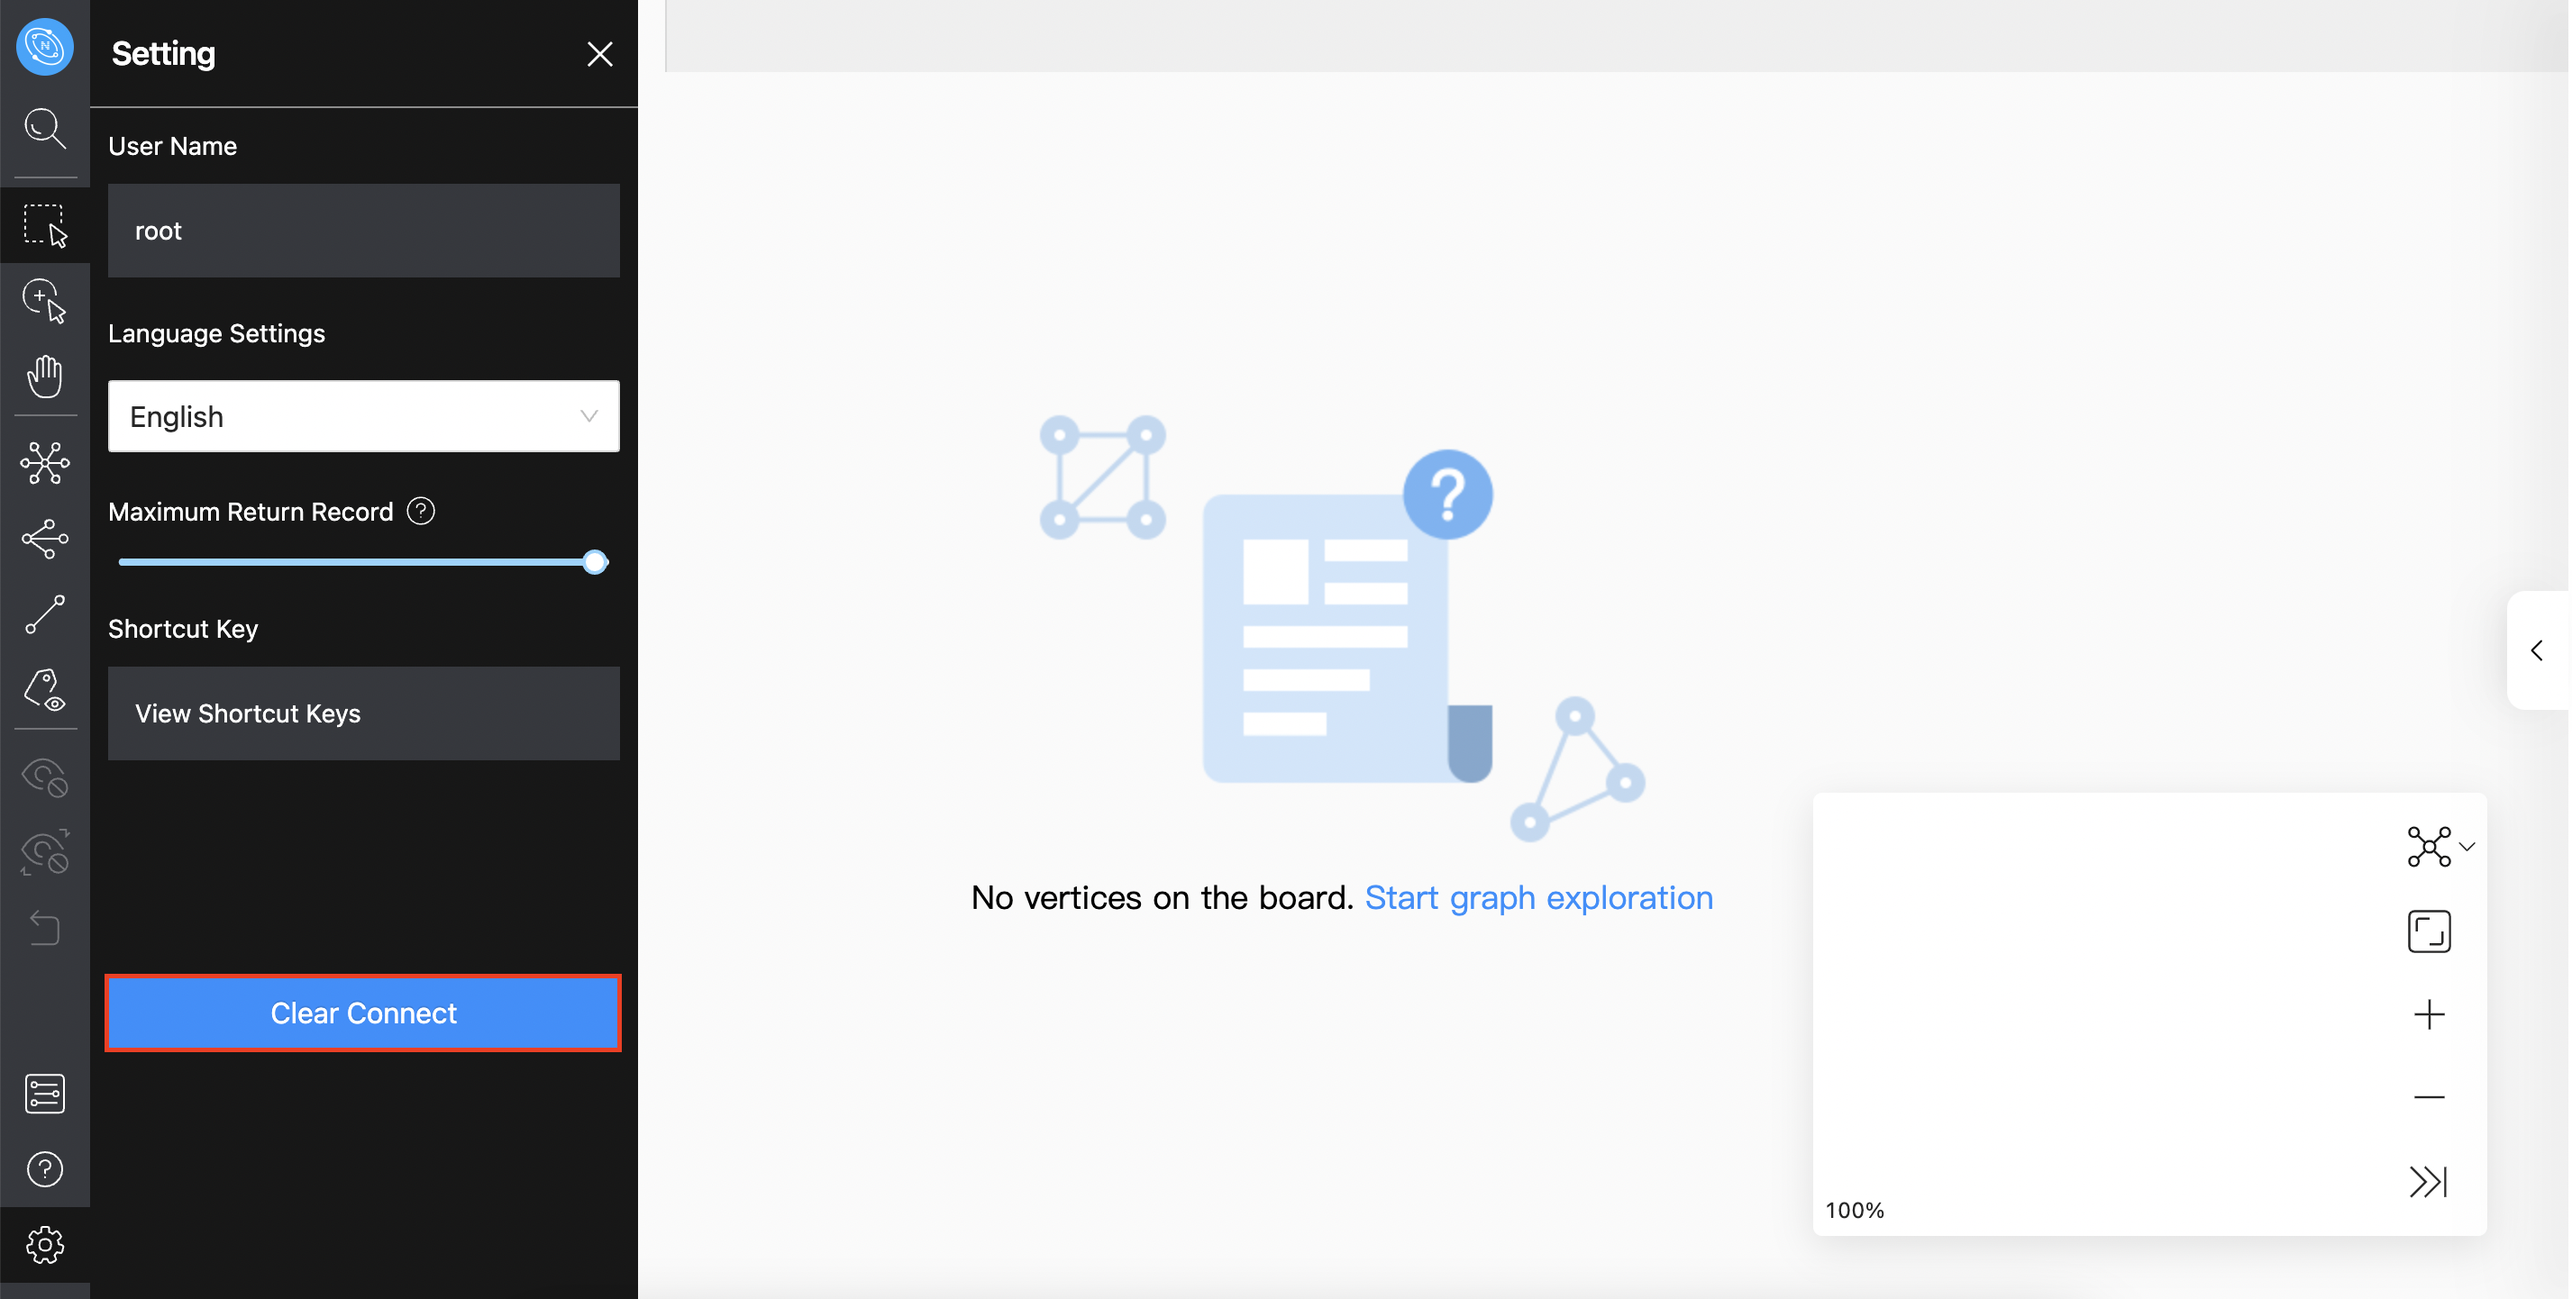
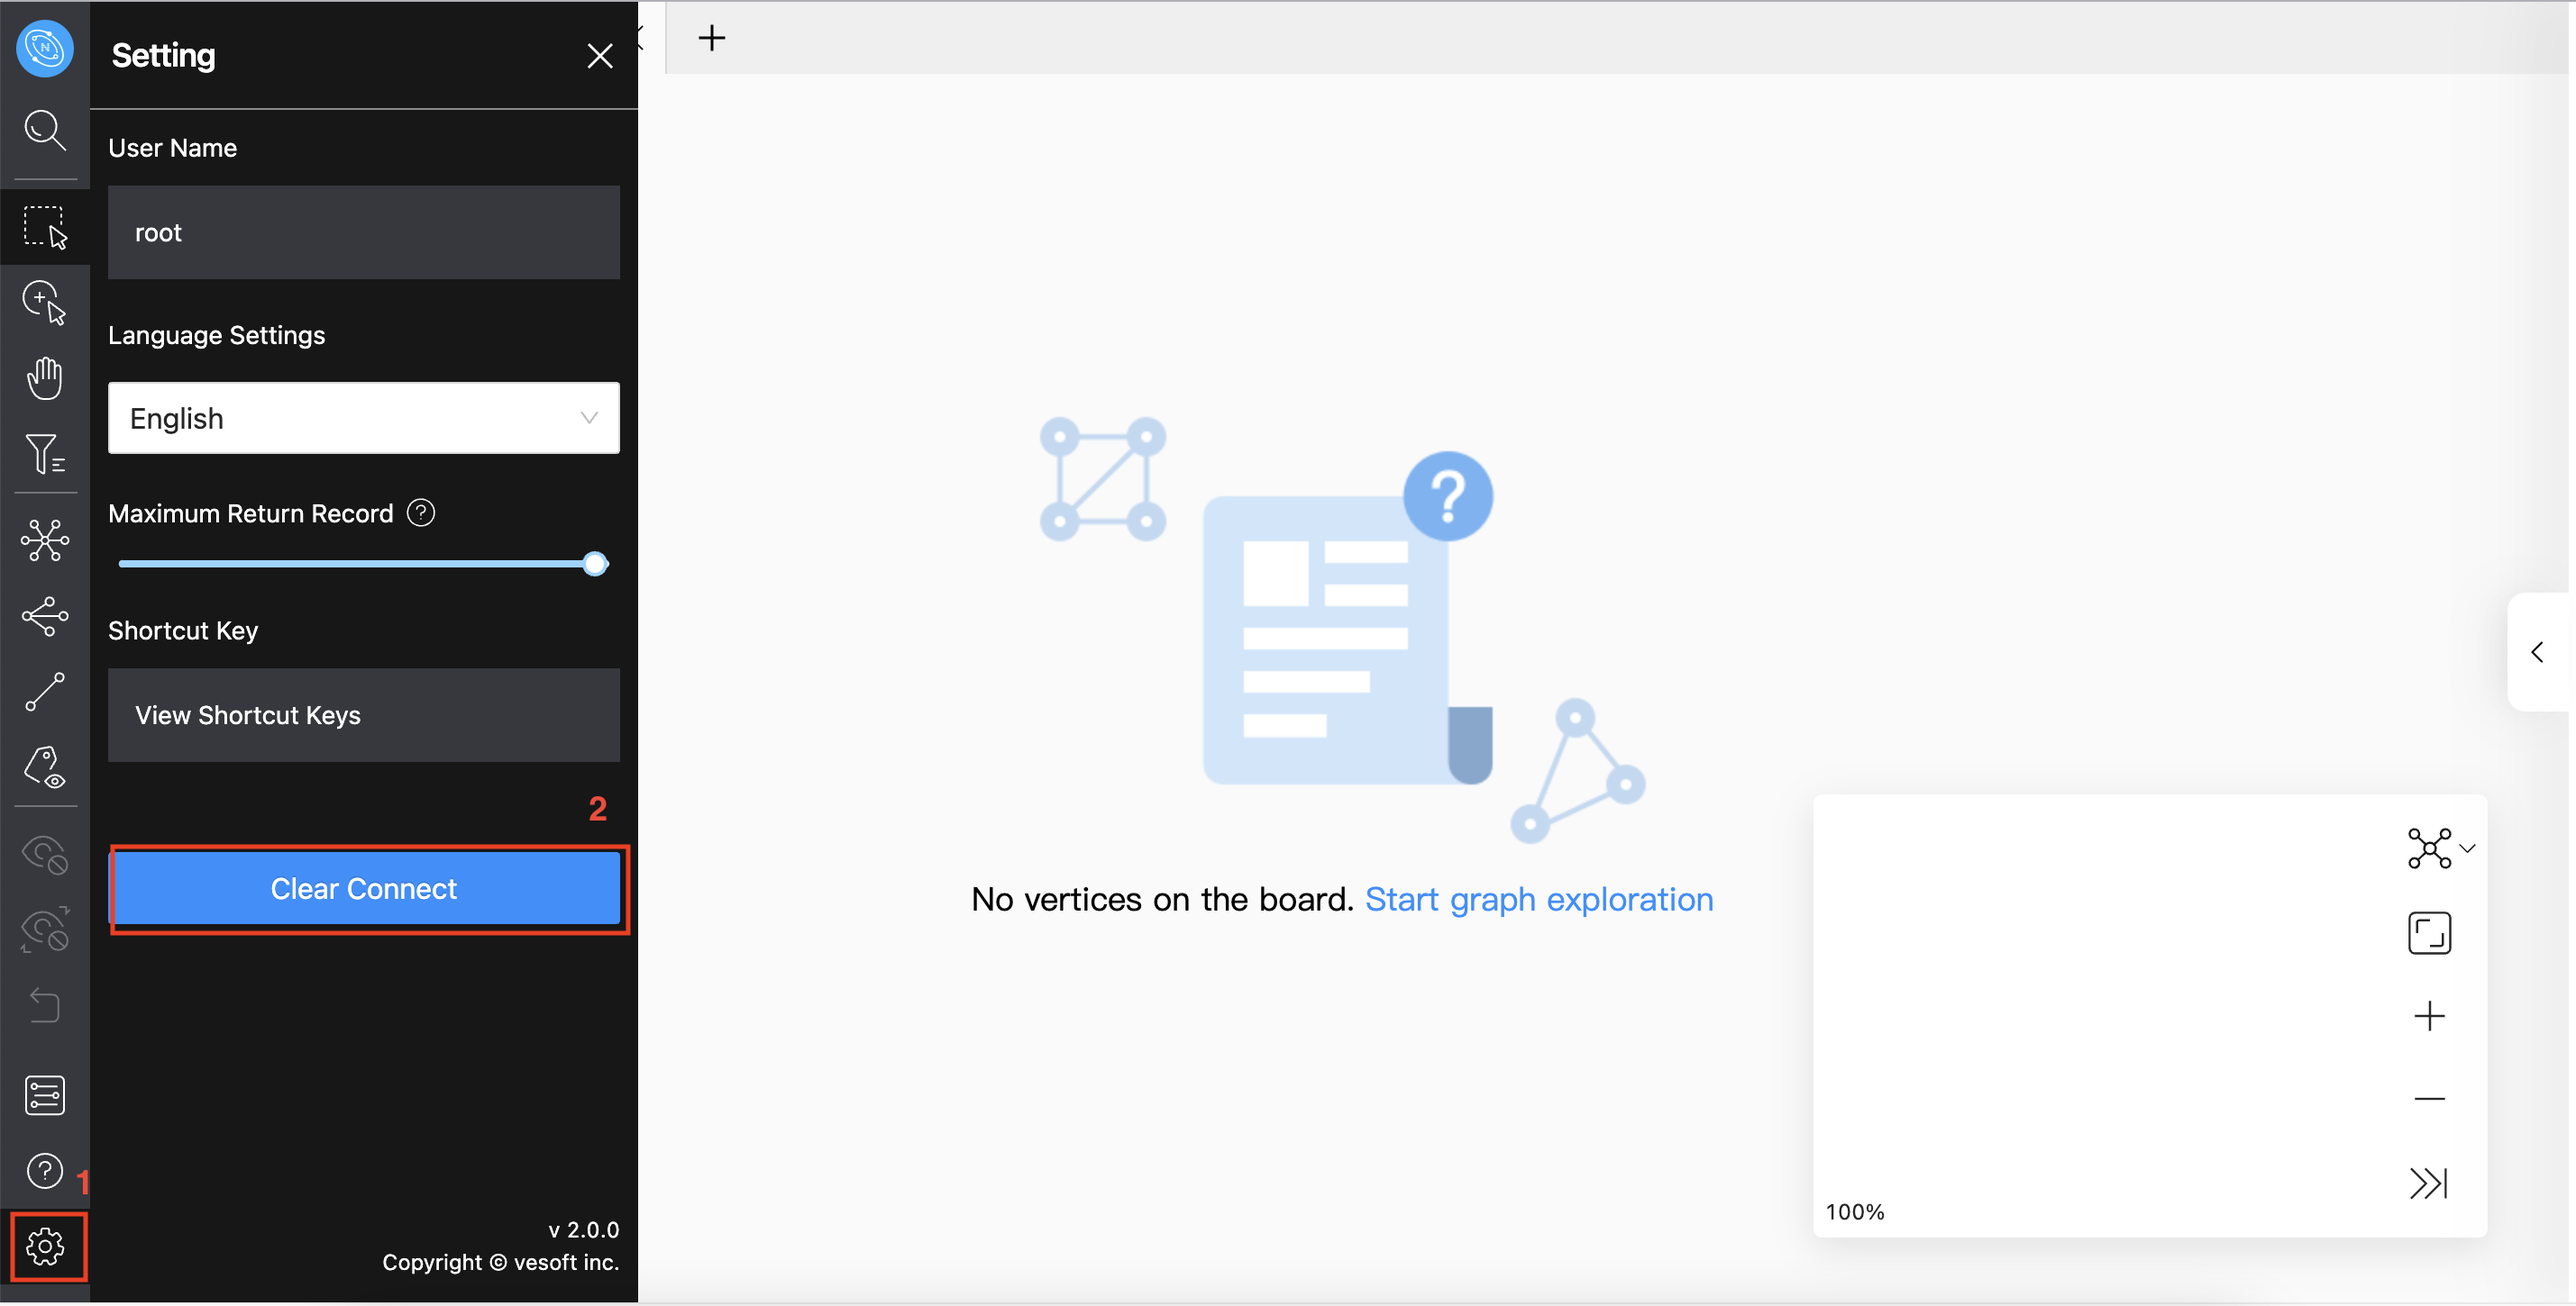
update

diff --git a/docs-2.0/nebula-explorer/operation-guide/ex-ug-canvas.md b/docs-2.0/nebula-explorer/operation-guide/ex-ug-canvas.md
@@ -5,26 +5,41 @@ This topic describes operation in canvas.
 ## Display vertexes and edges
 
 Move the mouse to the vertex or edge to view in detail. The following shows the detailed information of the vertex with `VID 107`:
+
 ![show](../figs/ex-ug-024-1.png)
 
 ## Batch selection
 
 Explorer supports batch selection and views the data of multiple vertexes and edges. The detailed data can be opened and viewed in the vertexes and edges overview at the lower-left corner of the canvas. It also supports exporting CSV files of selected vertexes or edges.
+
 ![review](../figs/ex-ug-027.png)
 
 ### Frame selection
 
 After clicking the ![frameselect](../figs/nav-frameSelect.png) icon, hold down the left button to drag and select multiple vertexes and edges. Examples are as follows:
-![slect](../figs/ex-ug-023-1.png)
+
+![select](../figs/ex-ug-023-1.png)
 
 ### Click to select multiple vertexes and edges
 
 Click the ![singleselect](../figs/nav-singleSelect.png) icon or hold down Shift, click and select multiple vertexes and edges with the mouse, and click the blank space to cancel the selection. Examples are as follows:
+
 ![select](../figs/ex-ug-025.png)
 
 ## Quick operation
 
 You can select one or more vertexes and edges, and right-click in the blank area to expand the vertexes, search the path between two vertexes, and show or hide their property on the canvas. The number of vertexes and edges you choose will affect the operations that can be performed. For more information, see [Graph Exploration Expansion](../operation-guide/ex-ug-graph-exploration.md).
+
 ![quick](../figs/ex-ug-026.png)
 
 Click **Fit Selection** to move the selected data to the center of the canvas for users to view.
+
+## Vertex Filter
+
+You can filter the vertexes displayed on the canvas. In this example, select the vertex whose Tag is `player`,`age>=35` and click the `Apply Filter` button.
+
+!!! note
+
+    Each set of filter conditions aims at the data with this Tag. If the conditions are met, the vertex will be automatically selected. If the conditions are not met, the vertex will turn gray. The data status of other tags will not be affected.
+
+![filter](../figs/ex-ug-029-1.png)

diff --git a/docs-2.0/nebula-explorer/deploy-connect/ex-ug-connect.md b/docs-2.0/nebula-explorer/deploy-connect/ex-ug-connect.md
@@ -36,12 +36,12 @@ To connect Explorer to Nebula Graph, follow these steps:
 
     - If authentication is enabled and different users are created and assigned roles, users in different roles log in with their accounts and passwords.
 
-   ![The Config Server page shows the fields to be configured for connection](../figs/ex-ug-050.png "Config Server")
+   ![The Config Server page shows the fields to be configured for connection](../figs/ex-ug-001-1.png)
 
-2. After the configuration, click the **Connect** button.
+2. After the configuration, click the **Login** button.
 
    If you can see the interface as shown in the below, it means you have successfully connected to the Nebula Graph database.
 
-   ![The Console page shows that the connection is successful](../figs/ex-ug-051.png "Nebula Graph is connected")
+   ![The Console page shows that the connection is successful](../figs/ex-ug-051-1.png "Nebula Graph is connected")
 
 One session continues for up to 30 minutes. If you do not operate Explorer within 30 minutes, the active session will time out and you must connect to Nebula Graph again.

diff --git a/docs-2.0/nebula-explorer/operation-guide/ex-ug-page-overview.md b/docs-2.0/nebula-explorer/operation-guide/ex-ug-page-overview.md
@@ -40,6 +40,7 @@ The sidebar consists of five parts. You can click the buttons to explore the gra
 - Frame selection mode: Click the ![frameSelect](../figs/nav-frameSelect.png) icon to support frame selection of vertexes and edges in the canvas.
 - Click to select multiple vertexes and edges: Click the ![singleSelect](../figs/nav-singleSelect.png) icon, you can easily click the vertexes and edges in the canvas, and click the blank space to cancel the selection.
 - Move the canvas: Click the ![moveCanvas](../figs/nav-moveCanvas.png) icon to drag the position of the canvas.
+- Vertex Filter: Click the ![filter](../figs/nav-filter.png) icon to filter the vertexes displayed on the canvas.
 
 For more information, see [Canvas Operation](../operation-guide/ex-ug-canvas.md).
 

diff --git a/docs-2.0/nebula-explorer/deploy-connect/ex-ug-deploy.md b/docs-2.0/nebula-explorer/deploy-connect/ex-ug-deploy.md
@@ -37,6 +37,7 @@ Before you deploy Explorer, you must do a check of these:
    ```bash
    $ sudo rpm -i nebula-graph-explorer-<version>.x86_64.rpm
    ```
+
 ### Uninstall
 
 Users can uninstall Explorer using the following command:
@@ -131,6 +132,6 @@ When Explorer is started, use `http://ip address:7002` to get access to Explorer
 
 Seeing the following login interface, Explorer is successfully connected to Nebula Graph.
 
-![Nebula Explorer](../figs/ex-ug-001.png)
+![Nebula Explorer](../figs/ex-ug-001-1.png)
 
 After entering the Explorer login interface, you need to connect to Nebula Graph. For more information, refer to [Connecting to the Nebula Graph](../deploy-connect/ex-ug-connect.md).

diff --git a/docs-2.0/nebula-explorer/about-explorer/ex-ug-what-is-explorer.md b/docs-2.0/nebula-explorer/about-explorer/ex-ug-what-is-explorer.md
@@ -10,9 +10,7 @@ Nebula Explorer (Explorer in short) is a browser-based visualization tool. It is
 
     You can also try some functions online in [Explorer](https://explorer.nebula-graph.io/).
 
-!!! Note
-
-    Users can also try out some functions online at [Explorer](https://explorer.nebula-graph.com.cn/).
+![explorer](../figs/explorer-en.png)
 
 ## Scenarios
 

diff --git a/docs-2.0/nebula-explorer/deploy-connect/ex-ug-reset-connection.md b/docs-2.0/nebula-explorer/deploy-connect/ex-ug-reset-connection.md
@@ -1,4 +1,4 @@
-# Reset connection
+# Clear connection
 
 When Explorer is still connected to a Nebula Graph database, in the toolbar, select Settings ![icon](../figs/nav-setup.png) > clear connect, as shown in the below:
 
